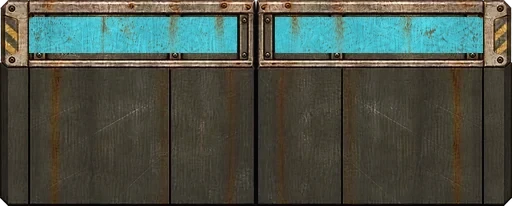
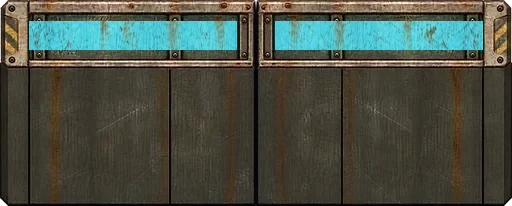
潜入: 横型ドアの水色帯を20%細くし明るさを調整

Changed region(s): [[0.0312, 0.0583, 0.4688, 0.2621], [0.5312, 0.0583, 0.9688, 0.2621]]

diff --git a/index.html b/index.html
@@ -864,7 +864,7 @@ const cv=document.getElementById('c'),gm=gameCanvasContext(cv,{alpha:false}),oc=
 const canvasCreationDiagnostics={requested:MOBILE_READBACK_CANVAS,accepted:null};
 try{const attributes=gm.getContextAttributes?.();if(attributes&&typeof attributes.willReadFrequently==='boolean')canvasCreationDiagnostics.accepted=attributes.willReadFrequently;}catch(_){}
 window.tankCanvasDiagnostics=canvasCreationDiagnostics;
-const GAME_VERSION='2026.10.21.1222',FILE_CREATED_AT='2026/10/21 12:22',DRILL_ACTIVE=5,DRILL_RECHARGE=6,DIG_PREP_DURATION=.5;
+const GAME_VERSION='2026.10.21.1231',FILE_CREATED_AT='2026/10/21 12:31',DRILL_ACTIVE=5,DRILL_RECHARGE=6,DIG_PREP_DURATION=.5;
 // 表示・保存用のm換算。移動・評価は内部座標のまま扱う。
 const distanceMeters=distance=>Math.round(Math.max(0,distance)/10);
 let audioCtx=null;
@@ -8025,7 +8025,7 @@ function reportGameError(error){
 <script src="js/maze-walls.js?v=2026.10.14.1653"></script>
 <script src="js/canyon.js?v=2026.10.14.1836"></script>
 <script src="js/vegetation.js?v=2026.10.14.1653"></script>
-<script src="js/infiltration-world.js?v=2026.10.21.1222"></script>
+<script src="js/infiltration-world.js?v=2026.10.21.1231"></script>
 <script src="js/infiltration-render.js?v=2026.10.21.1139"></script>
 <script>
 (function(){

diff --git a/js/infiltration-world.js b/js/infiltration-world.js
@@ -2764,7 +2764,7 @@ function indoorPropImage(kind){
   if(!kind)return null;
   if(!Object.prototype.hasOwnProperty.call(indoorPropImages,kind)){
     const image=new Image();image.decoding='async';
-    image.src='assets/indoor/'+kind+'.webp'+(kind==='personal_lockers'?'?v=20261021-storage':kind==='automatic_door_horizontal_cyan'?'?v=20261021-doorlight':kind==='automatic_door_cyan'?'?v=20261021-continuous':INDOOR_PROP_ASPECT[kind]?'?v=20261020-r2':'');indoorPropImages[kind]=image;
+    image.src='assets/indoor/'+kind+'.webp'+(kind==='personal_lockers'?'?v=20261021-storage':kind==='automatic_door_horizontal_cyan'?'?v=20261021-door-slimlight':kind==='automatic_door_cyan'?'?v=20261021-continuous':INDOOR_PROP_ASPECT[kind]?'?v=20261020-r2':'');indoorPropImages[kind]=image;
   }
   const image=indoorPropImages[kind];return assetOK(image)?image:null;
 }

diff --git a/assets/indoor/automatic_doors_cyan.prompt.md b/assets/indoor/automatic_doors_cyan.prompt.md
@@ -1,5 +1,9 @@
 # Cyan inner-panel door variants
 
+## 2026-10-21 horizontal stripe thickness and brightness refinement
+
+Built-in imagegen precise-object-edit: narrow the horizontal cyan bands by 20% around their existing centerline and slightly brighten the matte aqua paint. Integrate the generated stripe into x=29..236 and 275..482, y=21..49 (29px, rounded from 36px × 0.8). Restore the exposed margins with original unpainted metal. Calibrate average paint luminance to approximately 8% above the previous horizontal asset. Keep the storage-side lengths, central blank, outer frame, front face, alpha and 512x206 dimensions. Pixels outside the previous stripe rectangles are unchanged before WebP encoding. Vertical artwork and runtime geometry stay unchanged. WebP quality 90; no added draw calls or effects.
+
 ## 2026-10-21 horizontal cyan brightness refinement
 
 Built-in imagegen precise-object-edit: slightly brighten only the two existing horizontal cyan stripes, retaining matte worn aqua paint without glow. The generated paint was blended into the exact existing painted rectangles to increase average luminance by approximately 10%. Preserve stripe boundaries, 36px height, storage-side extent, central unpainted span, front face, frame, hazard endcaps, alpha and 512x206 dimensions. Unpainted pixels remain unchanged before WebP encoding. Vertical artwork and runtime drawing stay unchanged. WebP quality 90.
